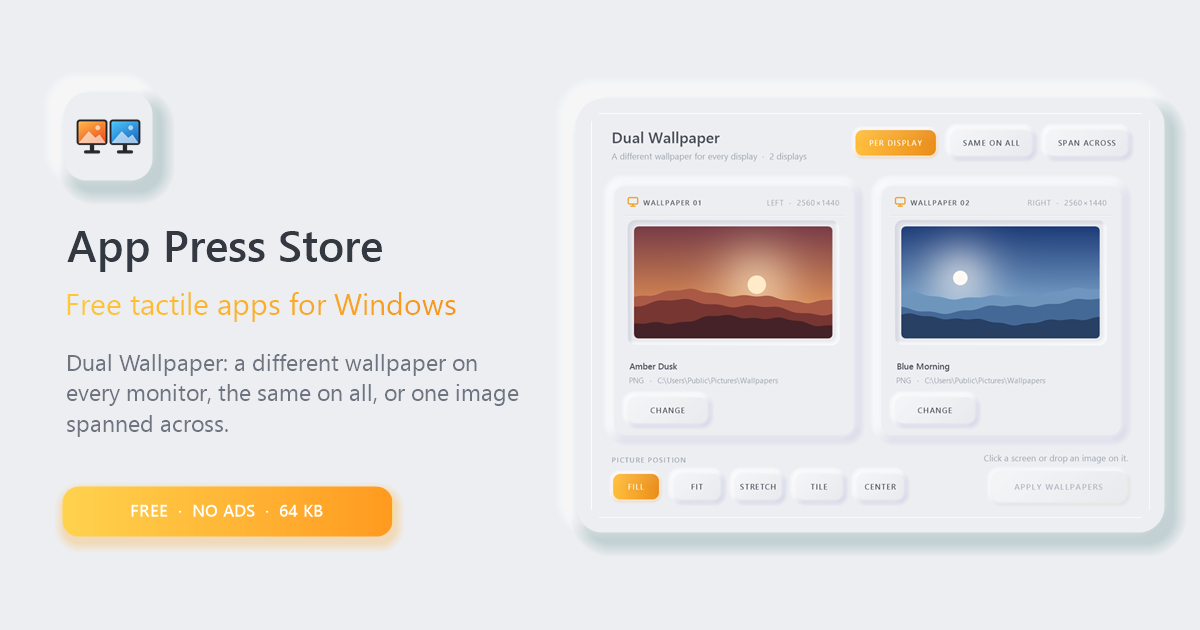
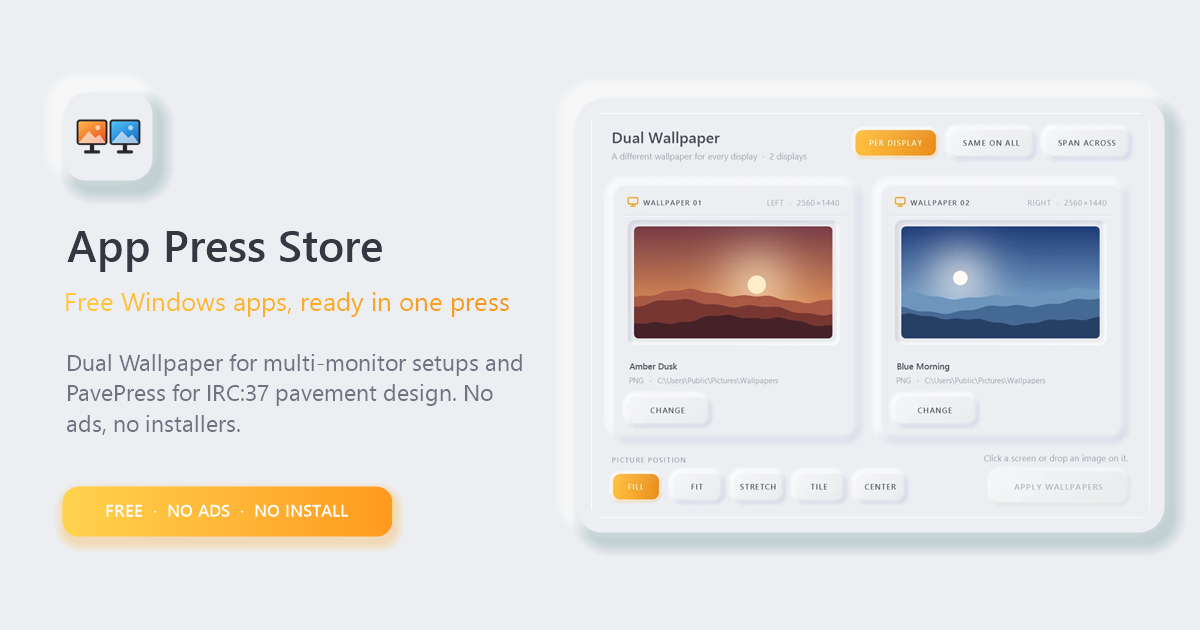
Retitle store: Press to Download Free Windows Apps
New home heading and intro covering both apps, matching footer,
about text, share descriptions and link-preview image.

diff --git a/index.html b/index.html
@@ -3,7 +3,7 @@
 <head>
   <meta charset="utf-8">
   <meta name="viewport" content="width=device-width, initial-scale=1">
-  <title>App Press Store — Free Windows Apps · Dual Wallpaper · PavePress IRC:37 Pavement Design</title>
+  <title>App Press Store — Press to Download Free Windows Apps</title>
   <meta name="description" content="Free, tiny apps for Windows 10 and 11. Dual Wallpaper sets a different wallpaper on each monitor or spans one across. PavePress does IRC:37-2018 flexible pavement design with built-in IITPAVE-style analysis. No ads, no install.">
   <meta name="keywords" content="dual monitor wallpaper, different wallpaper each monitor, multi monitor wallpaper Windows 11, IRC 37 2018 pavement design software, flexible pavement design, IITPAVE alternative, free Windows apps, App Press Store">
   <meta name="robots" content="index, follow, max-image-preview:large">
@@ -16,15 +16,15 @@
   <meta property="og:type" content="website">
   <meta property="og:site_name" content="App Press Store">
   <meta property="og:url" content="https://apppress-store.github.io/">
-  <meta property="og:title" content="App Press Store — Free Windows Apps">
-  <meta property="og:description" content="Dual Wallpaper: a different wallpaper on every monitor, the same on all, or one image spanned across. Free, 64 KB, no ads.">
+  <meta property="og:title" content="App Press Store — Press to Download Free Windows Apps">
+  <meta property="og:description" content="Free Windows apps, ready in one press: Dual Wallpaper for multi-monitor setups and PavePress for IRC:37-2018 pavement design. No ads, no installers.">
   <meta property="og:image" content="https://apppress-store.github.io/assets/og-image.png">
   <meta property="og:image:width" content="1200">
   <meta property="og:image:height" content="630">
-  <meta property="og:image:alt" content="App Press Store with the Dual Wallpaper app showing a different wallpaper on two monitors">
+  <meta property="og:image:alt" content="App Press Store: free Windows apps, ready in one press, with the Dual Wallpaper app">
   <meta name="twitter:card" content="summary_large_image">
-  <meta name="twitter:title" content="App Press Store — Free Windows Apps">
-  <meta name="twitter:description" content="Dual Wallpaper: a different wallpaper on every monitor, the same on all, or one image spanned across.">
+  <meta name="twitter:title" content="App Press Store — Press to Download Free Windows Apps">
+  <meta name="twitter:description" content="Free Windows apps, ready in one press: Dual Wallpaper for multi-monitor setups and PavePress for IRC:37-2018 pavement design.">
   <meta name="twitter:image" content="https://apppress-store.github.io/assets/og-image.png">
 
   <link rel="icon" href="favicon.ico">
@@ -122,8 +122,8 @@
     <section id="home" class="home section">
       <div class="intro">
         <p class="eyebrow inset-pill"><span class="dot"></span> Free · No ads · No tracking</p>
-        <h1>Tactile little apps <span class="amber-text">for Windows.</span></h1>
-        <p class="lead">Small, focused tools with a soft, pressed-button feel. Pick an app below to see what it does, or download it straight away.</p>
+        <h1>Free Windows apps, <span class="amber-text">ready in one press.</span></h1>
+        <p class="lead">Focused tools for everyday and professional work — from multi-monitor wallpapers to IRC pavement design. No ads, no installers: pick an app below to see what it does, or download it straight away.</p>
       </div>
 
       <!-- apps list -->
@@ -431,7 +431,7 @@
 
       <div class="about-grid">
         <div class="about raised">
-          <p>App Press Store is a small home for <b>tactile little apps for Windows</b> — tools that do one job well and feel nice to press. Every app is designed in the same soft, pressed-button style and follows your light or dark setting.</p>
+          <p>App Press Store is a home for <b>free, focused Windows apps</b> — tools for everyday and professional work that do one job well and feel nice to press. Every app is designed in the same soft, pressed-button style and follows your light or dark setting.</p>
           <ul class="features">
             <li>Free to download and use</li>
             <li>No ads, no accounts, no tracking</li>
@@ -471,7 +471,7 @@
   </main>
 
   <footer class="footer">
-    <p>App Press Store · Tactile little apps for Windows</p>
+    <p>App Press Store · Free Windows apps, ready in one press</p>
     <p class="muted">Free to use. Made with soft shadows and amber light.</p>
   </footer>
 

diff --git a/README.md b/README.md
@@ -1,6 +1,6 @@
 # App Press Store
 
-Tactile little apps for Windows, with a soft, pressed-button design.
+Free Windows apps, ready in one press: focused tools with a soft, pressed-button design.
 
 **Website:** https://apppress-store.github.io
 
